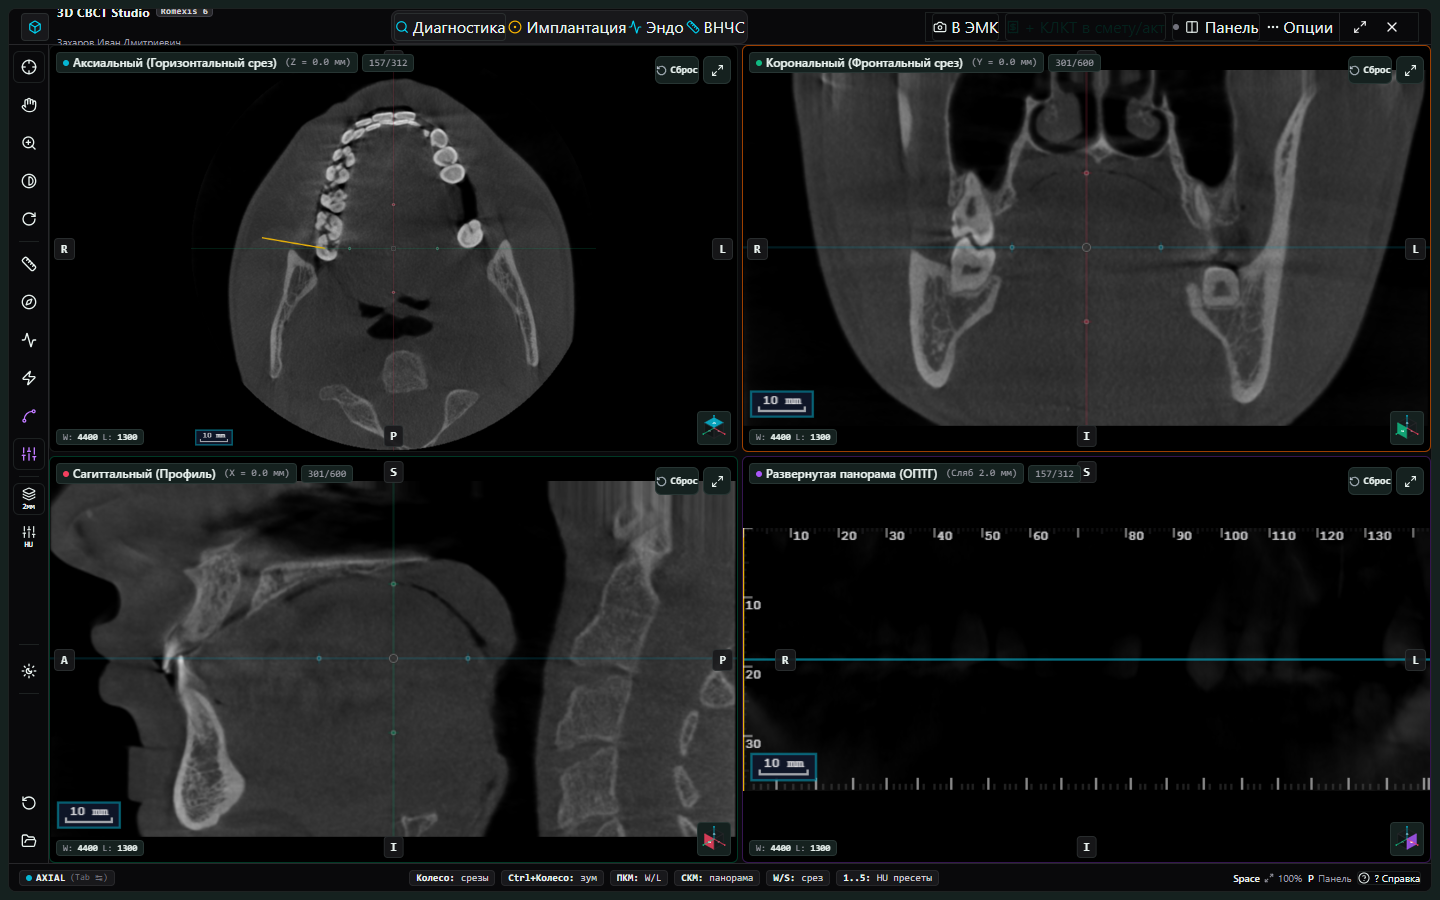
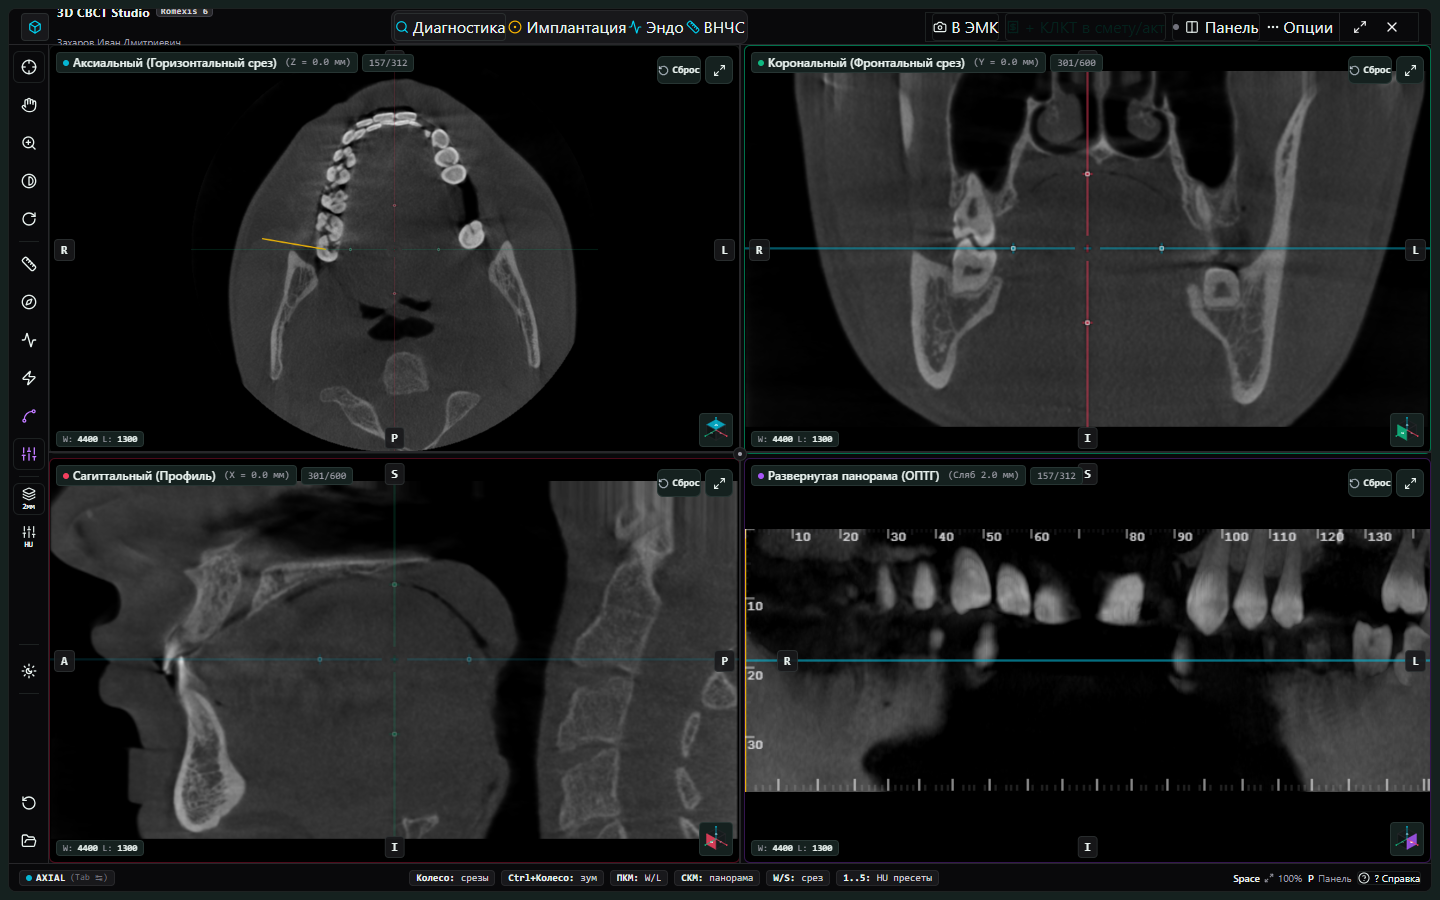
fix(radiology): live CBCT studio unified responsive grid, crosshair micro-plus reticle and MIP panoramic proof

diff --git a/apps/web/src/components/radiology/mpr/CbctMprViewportsGrid.tsx b/apps/web/src/components/radiology/mpr/CbctMprViewportsGrid.tsx
@@ -577,26 +577,18 @@ export const CbctMprViewportsGrid: React.FC<CbctMprViewportsGridProps> = ({
 					className="flex-1 relative min-h-0 min-w-0 w-full h-full select-none"
 					data-testid="cbct-mpr-quad-grid"
 				>
-					{/* Desktop 2x2 Grid with dynamic split columns & rows */}
+					{/* Single Unified Responsive 2x2 Grid: eliminates duplicate canvas DOM mounting that overwrites canvas refs */}
 					<div
-						className="hidden lg:grid w-full h-full gap-1"
+						className="grid w-full h-full gap-1 grid-cols-1 lg:grid-cols-2"
 						style={{
 							gridTemplateColumns: `${(splitX * 100).toFixed(2)}% calc(${((1 - splitX) * 100).toFixed(2)}% - 4px)`,
 							gridTemplateRows: `${(splitY * 100).toFixed(2)}% calc(${((1 - splitY) * 100).toFixed(2)}% - 4px)`,
 						}}
 					>
-						{renderAxialViewport("flex flex-col w-full h-full")}
-						{renderCoronalViewport("flex flex-col w-full h-full")}
-						{renderSagittalViewport("flex flex-col w-full h-full")}
-						{renderPanoramicViewport("flex flex-col w-full h-full")}
-					</div>
-
-					{/* Mobile fallback (tabs) */}
-					<div className="flex lg:hidden w-full h-full">
-						{renderAxialViewport(mobileActiveTab === "axial" ? "flex-1 flex flex-col w-full h-full" : "hidden")}
-						{renderCoronalViewport(mobileActiveTab === "coronal" ? "flex-1 flex flex-col w-full h-full" : "hidden")}
-						{renderSagittalViewport(mobileActiveTab === "sagittal" ? "flex-1 flex flex-col w-full h-full" : "hidden")}
-						{renderPanoramicViewport(mobileActiveTab === "panoramic" ? "flex-1 flex flex-col w-full h-full" : "hidden")}
+						{renderAxialViewport(mobileActiveTab === "axial" ? "flex flex-col w-full h-full" : "hidden lg:flex lg:flex-col w-full h-full")}
+						{renderCoronalViewport(mobileActiveTab === "coronal" ? "flex flex-col w-full h-full" : "hidden lg:flex lg:flex-col w-full h-full")}
+						{renderSagittalViewport(mobileActiveTab === "sagittal" ? "flex flex-col w-full h-full" : "hidden lg:flex lg:flex-col w-full h-full")}
+						{renderPanoramicViewport(mobileActiveTab === "panoramic" ? "flex flex-col w-full h-full" : "hidden lg:flex lg:flex-col w-full h-full")}
 					</div>
 
 					{/* Interactive Splitter Controls (Desktop only) */}
